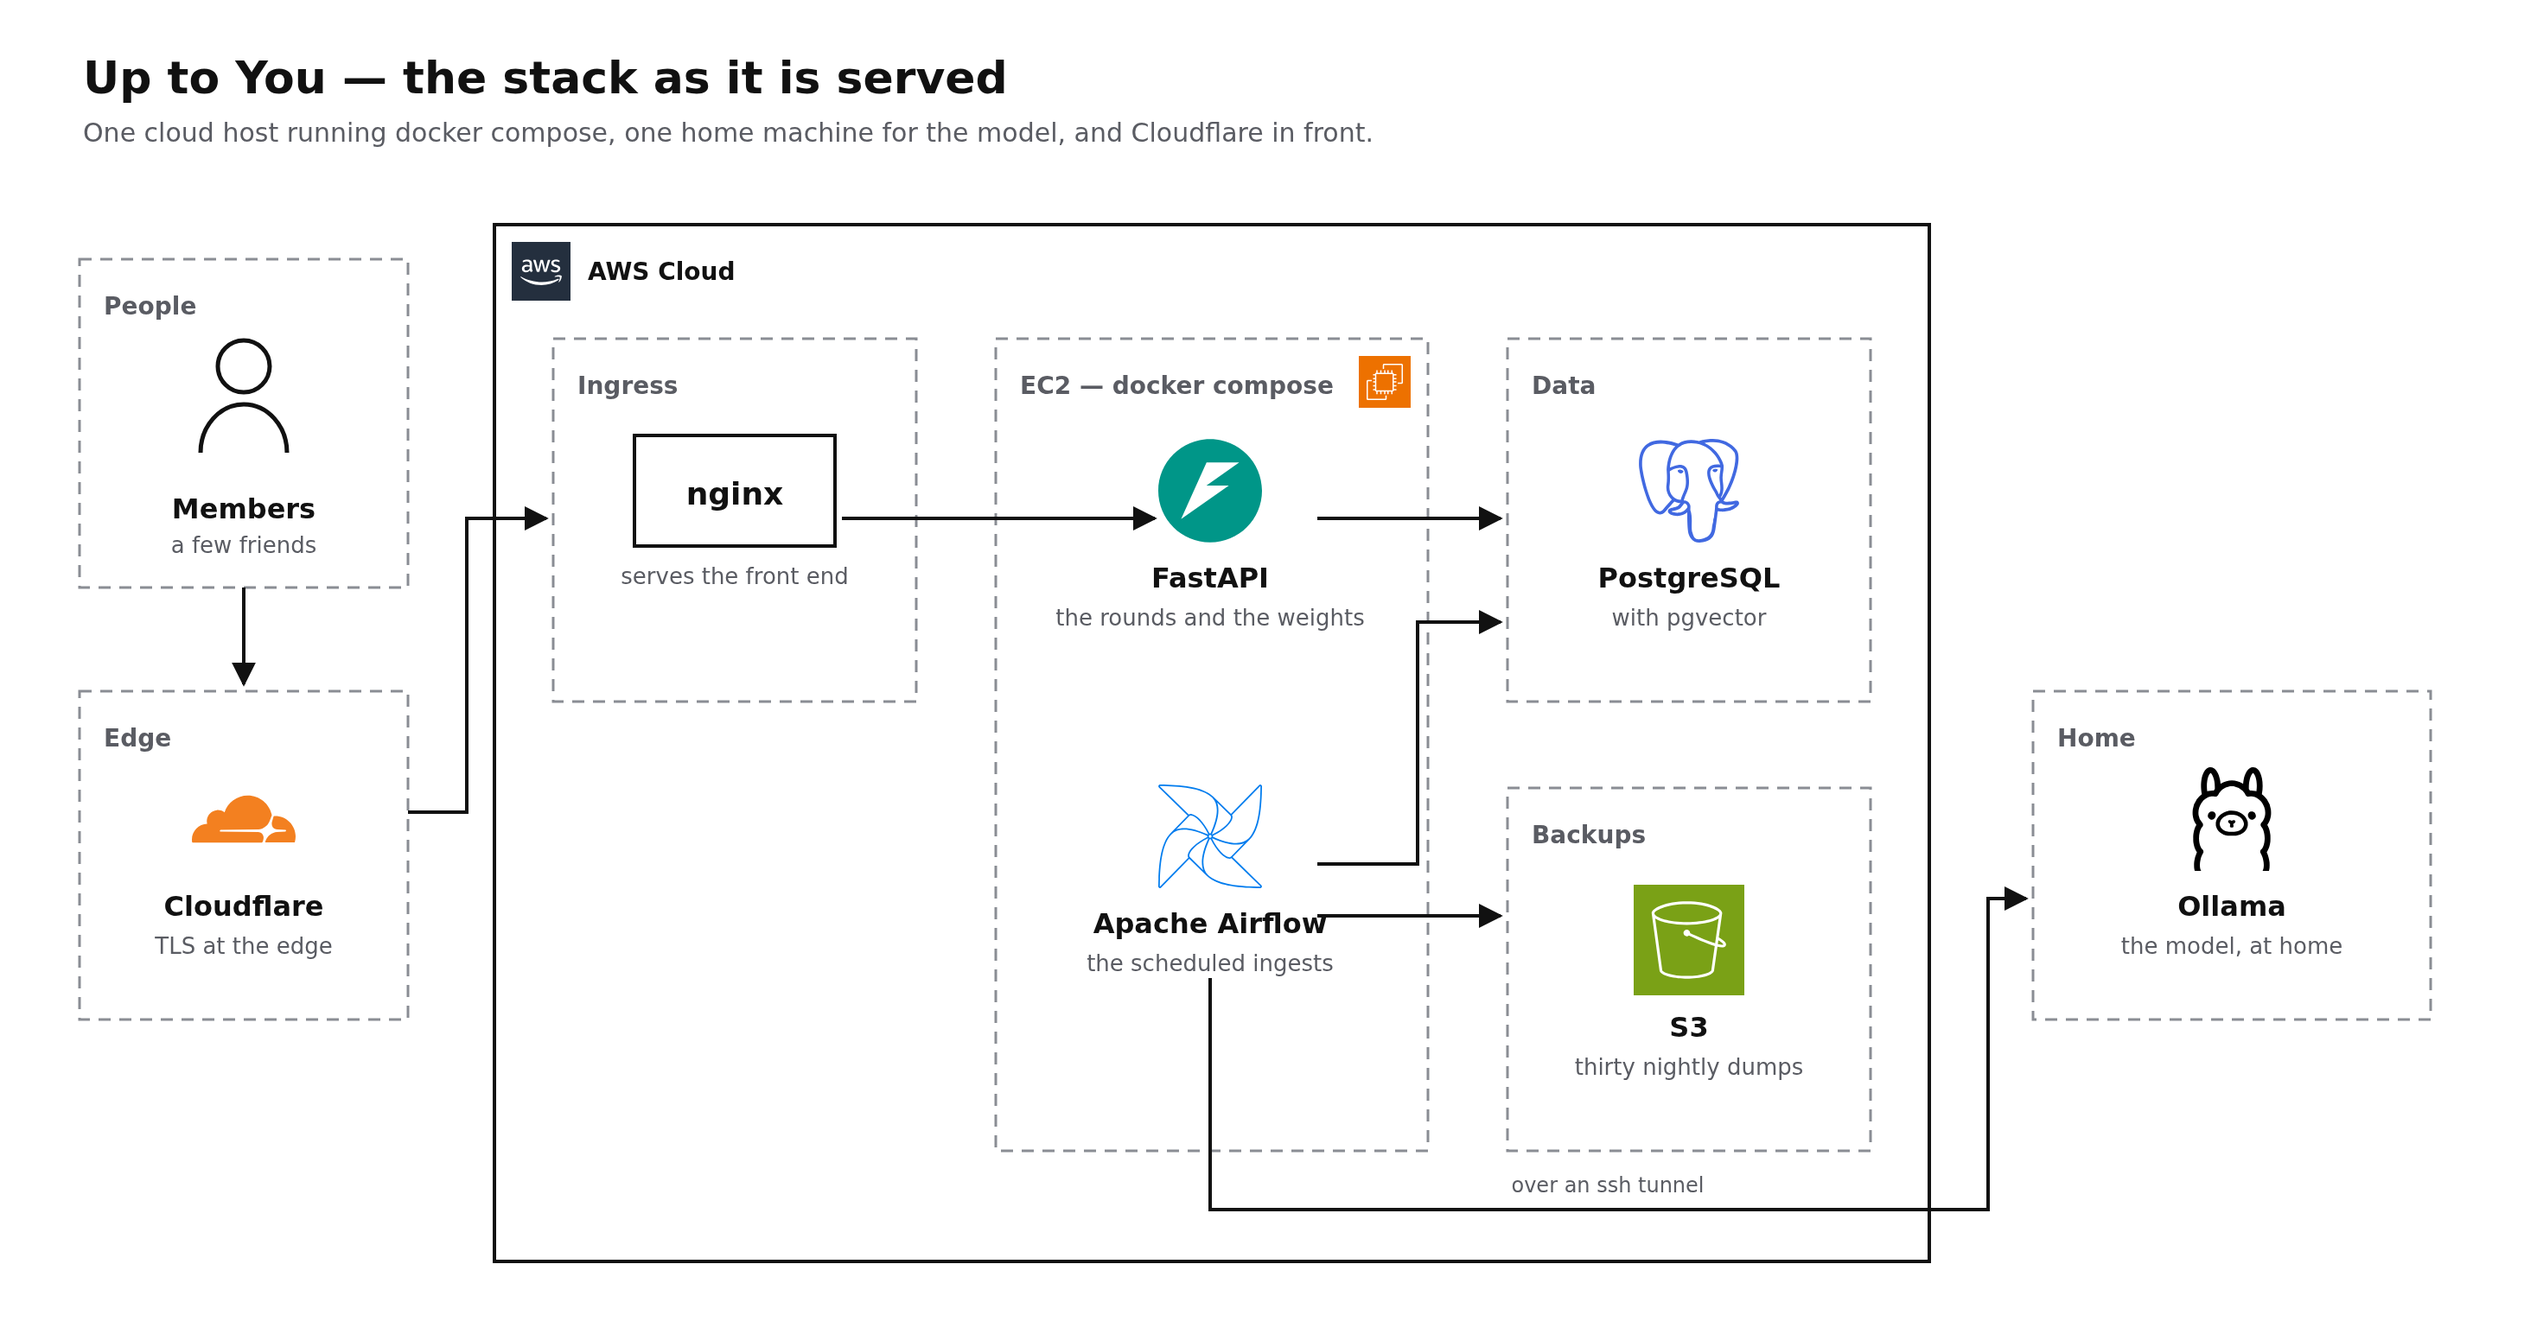
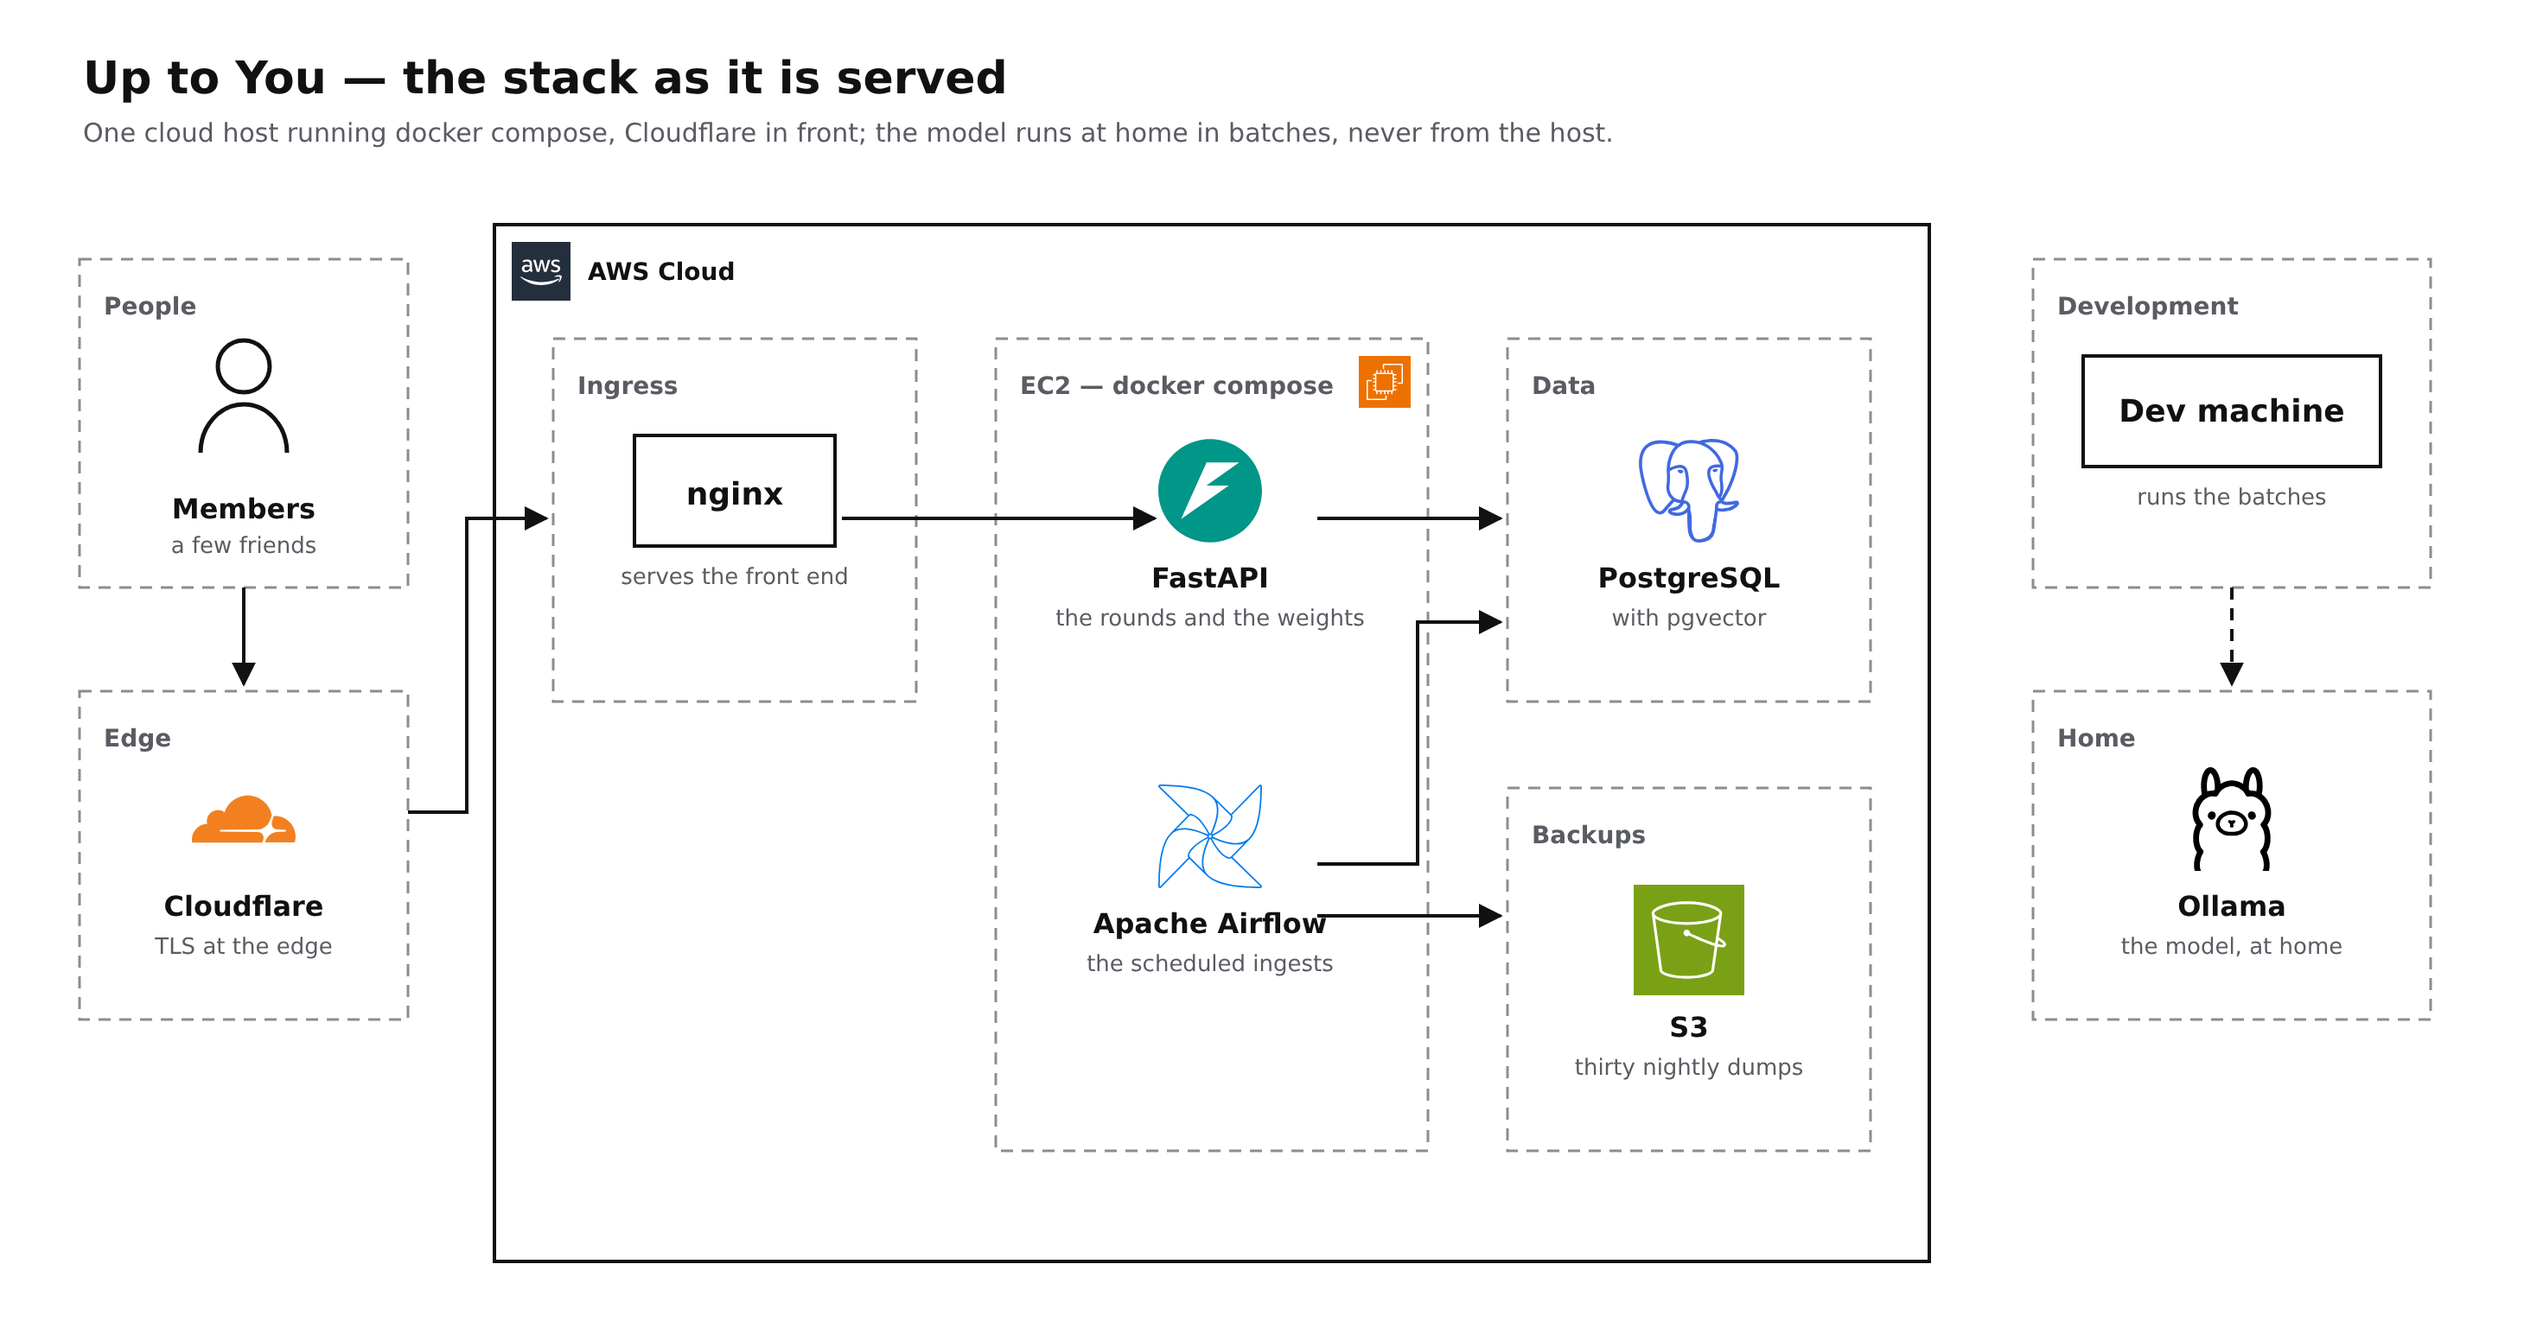
diagrams: the architecture picture shows production as it runs — no model path from EC2; a dev machine runs the batches against the home card; seven logins (evaluator; committed by the orchestrator in budget mode for backend's pen)
Claude-Session: https://claude.ai/code/session_016zX6wovjNt3LcH8hsb9Kdy

diff --git a/docs/diagrams/architecture.html b/docs/diagrams/architecture.html
@@ -4965,7 +4965,7 @@
         <div class="pulse-dot"></div>
         <h1>Up to You — the stack as it is served</h1>
       </div>
-      <p class="subtitle">One cloud host running docker compose, one home machine for the model, and Cloudflare in front.</p>
+      <p class="subtitle">One cloud host running docker compose, Cloudflare in front; the model runs at home in batches, never from the host.</p>
     </div>
 
     <script id="archify-guided-views-data" type="application/json">[]</script>
@@ -5015,7 +5015,7 @@
          data-preset-badge-editorial-plate="ARCHIFY / PLATE 04">
       <svg viewBox="0 0 1200 492" role="img" lang="en" aria-labelledby="archify-diagram-title archify-diagram-description" data-preset="classic" data-quality-profile="showcase">
         <title id="archify-diagram-title">Up to You — the stack as it is served</title>
-        <desc id="archify-diagram-description">One cloud host running docker compose, one home machine for the model, and Cloudflare in front.</desc>
+        <desc id="archify-diagram-description">One cloud host running docker compose, Cloudflare in front; the model runs at home in batches, never from the host.</desc>
         <!-- Definitions -->
         <defs>
           <marker id="arrowhead" markerWidth="10" markerHeight="7" refX="9" refY="3.5" orient="auto">
@@ -5043,17 +5043,19 @@
 
         <rect data-graph-role="structural-frame" data-composition-frame-kind="region" data-composition-frame-id="1" data-composition-frame-label="Edge" x="24" y="320" width="152" height="104" rx="12" class="c-region" stroke-width="1"/>
 
-        <rect data-graph-role="structural-frame" data-composition-frame-kind="region" data-composition-frame-id="2" data-composition-frame-label="AWS Cloud — one EC2 instance, docker compose" x="252" y="46" width="680" height="378" rx="12" class="c-region" stroke-width="1"/>
+        <rect data-graph-role="structural-frame" data-composition-frame-kind="region" data-composition-frame-id="2" data-composition-frame-label="AWS Cloud — one EC2 instance, docker compose" x="252" y="46" width="680" height="246" rx="12" class="c-region" stroke-width="1"/>
 
         <rect data-graph-role="structural-frame" data-composition-frame-kind="security-group" data-composition-frame-id="3" data-composition-frame-label="Ingress" x="270" y="188" width="152" height="104" rx="8" class="c-security-group" stroke-width="1"/>
 
-        <rect data-graph-role="structural-frame" data-composition-frame-kind="region" data-composition-frame-id="4" data-composition-frame-label="Containers" x="516" y="56" width="152" height="368" rx="12" class="c-region" stroke-width="1"/>
+        <rect data-graph-role="structural-frame" data-composition-frame-kind="region" data-composition-frame-id="4" data-composition-frame-label="Containers" x="516" y="56" width="152" height="236" rx="12" class="c-region" stroke-width="1"/>
 
         <rect data-graph-role="structural-frame" data-composition-frame-kind="region" data-composition-frame-id="5" data-composition-frame-label="Data" x="762" y="56" width="152" height="104" rx="12" class="c-region" stroke-width="1"/>
 
         <rect data-graph-role="structural-frame" data-composition-frame-kind="region" data-composition-frame-id="6" data-composition-frame-label="Backups" x="762" y="188" width="152" height="104" rx="12" class="c-region" stroke-width="1"/>
 
         <rect data-graph-role="structural-frame" data-composition-frame-kind="region" data-composition-frame-id="7" data-composition-frame-label="Home" x="1008" y="320" width="152" height="104" rx="12" class="c-region" stroke-width="1"/>
+
+        <rect data-graph-role="structural-frame" data-composition-frame-kind="region" data-composition-frame-id="8" data-composition-frame-label="Development" x="1008" y="188" width="152" height="104" rx="12" class="c-region" stroke-width="1"/>
 
         <!-- Connection paths (before components for correct z-order) -->
         <path data-edge-from="members" data-edge-to="cloudflare" data-edge-key="0" data-composition-points="100,272;100,344" d="M 100 272 L 100 344" class="a-default" stroke-width="1.5" marker-end="url(#arrowhead)"/>
@@ -5062,8 +5064,7 @@
         <path data-edge-from="api" data-edge-to="db" data-edge-key="3" data-composition-points="652,103;778,103" d="M 652 103 L 778 103" class="a-default" stroke-width="1.5" marker-end="url(#arrowhead)"/>
         <path data-edge-from="airflow" data-edge-to="db" data-edge-key="4" data-composition-points="652,235;715,235;715,117;778,117" d="M 652 235 L 707 235 Q 715 235 715 227 L 715 125 Q 715 117 723 117 L 778 117" class="a-default" stroke-width="1.5" marker-end="url(#arrowhead)"/>
         <path data-edge-from="airflow" data-edge-to="s3" data-edge-key="5" data-composition-points="652,249;778,249" d="M 652 249 L 778 249" class="a-default" stroke-width="1.5" marker-end="url(#arrowhead)"/>
-        <path data-edge-from="airflow" data-edge-to="relay" data-edge-key="6" data-composition-points="592,272;592,344" d="M 592 272 L 592 344" class="a-default" stroke-width="1.5" marker-end="url(#arrowhead)"/>
-        <path data-edge-from="relay" data-edge-to="gpu" data-edge-label="ssh tunnel" data-edge-key="7" data-composition-points="652,374;1024,374" d="M 652 374 L 1024 374" class="a-default" stroke-width="1.5" marker-end="url(#arrowhead)"/>
+        <path data-edge-from="devbox" data-edge-to="gpu" data-edge-key="6" data-composition-points="1084,272;1084,344" d="M 1084 272 L 1084 344" class="a-dashed" stroke-width="1.5" marker-end="url(#arrowhead-dashed)"/>
 
         <!-- Components -->
         <g id="node-members" data-node-id="members" data-node-label="Members" tabindex="0" role="button" aria-label="Focus Members, a few friends, People" aria-pressed="false" data-node-kind="external" data-node-sublabel="a few friends" data-node-context="People">
@@ -5140,20 +5141,6 @@
         <text data-detail="context" x="592" y="256" class="t-muted" font-size="8.8" text-anchor="middle">the scheduled ingests</text>
         </g>
 
-        <g id="node-relay" data-node-id="relay" data-node-label="tunnel relay" tabindex="0" role="button" aria-label="Focus tunnel relay, user-level, host side, AWS Cloud — one EC2 instance, docker compose › Containers" aria-pressed="false" data-node-kind="messagebus" data-node-sublabel="user-level, host side" data-node-context="AWS Cloud — one EC2 instance, docker compose › Containers">
-          <title>tunnel relay · user-level, host side · AWS Cloud — one EC2 instance, docker compose › Containers</title>
-          <rect x="532" y="344" width="120" height="60" rx="6" class="c-mask"/>
-          <rect x="532" y="344" width="120" height="60" rx="6" class="c-messagebus" stroke-width="1.5"/>
-          <g aria-hidden="true" data-semantic-sigil="messagebus" class="semantic-sigil s-messagebus" transform="translate(538 350) scale(0.6875)">
-            <path d="M2.5 4.5h11M2.5 8h11M2.5 11.5h11"/>
-            <circle cx="5" cy="4.5" r="1" class="sigil-fill"/>
-            <circle cx="10.5" cy="8" r="1" class="sigil-fill"/>
-            <circle cx="7" cy="11.5" r="1" class="sigil-fill"/>
-          </g>
-          <text data-node-label="" data-detail-anchor="" x="592" y="372" class="t-primary" font-size="11" font-weight="600" text-anchor="middle">tunnel relay</text>
-        <text data-detail="context" x="592" y="388" class="t-muted" font-size="8.8" text-anchor="middle">user-level, host side</text>
-        </g>
-
         <g id="node-db" data-node-id="db" data-node-label="PostgreSQL" tabindex="0" role="button" aria-label="Focus PostgreSQL, with pgvector, AWS Cloud — one EC2 instance, docker compose › Data, PostgreSQL" aria-pressed="false" data-node-kind="database" data-node-sublabel="with pgvector" data-node-context="AWS Cloud — one EC2 instance, docker compose › Data" data-node-brand="PostgreSQL" data-node-brand-id="postgresql" data-node-brand-status="preset" data-node-brand-source="https://wiki.postgresql.org/wiki/Logo">
           <title>PostgreSQL · with pgvector · AWS Cloud — one EC2 instance, docker compose › Data · PostgreSQL</title>
           <rect x="778" y="80" width="120" height="60" rx="6" class="c-mask"/>
@@ -5182,8 +5169,8 @@
         <text data-detail="context" x="838" y="256" class="t-muted" font-size="9" text-anchor="middle">thirty nightly dumps</text>
         </g>
 
-        <g id="node-gpu" data-node-id="gpu" data-node-label="Ollama" tabindex="0" role="button" aria-label="Focus Ollama, the home machine, Home, Ollama" aria-pressed="false" data-node-kind="external" data-node-sublabel="the home machine" data-node-context="Home" data-node-brand="Ollama" data-node-brand-id="ollama" data-node-brand-status="preset" data-node-brand-source="https://github.com/ollama/ollama/issues/2152#issuecomment-1905286922">
-          <title>Ollama · the home machine · Home · Ollama</title>
+        <g id="node-gpu" data-node-id="gpu" data-node-label="Ollama" tabindex="0" role="button" aria-label="Focus Ollama, the model, at home, Home, Ollama" aria-pressed="false" data-node-kind="external" data-node-sublabel="the model, at home" data-node-context="Home" data-node-brand="Ollama" data-node-brand-id="ollama" data-node-brand-status="preset" data-node-brand-source="https://github.com/ollama/ollama/issues/2152#issuecomment-1905286922">
+          <title>Ollama · the model, at home · Home · Ollama</title>
           <rect x="1024" y="344" width="120" height="60" rx="6" class="c-mask"/>
           <rect x="1024" y="344" width="120" height="60" rx="6" class="c-external" stroke-width="1.5"/>
           <g aria-hidden="true" data-semantic-sigil="external" class="semantic-sigil s-external" transform="translate(1030 350) scale(0.6875)">
@@ -5196,7 +5183,19 @@
             <rect width="16" height="16" rx="4" class="brand-mark-frame"/>
           </g>
           <text data-node-label="" data-detail-anchor="" x="1084" y="372" class="t-primary" font-size="11" font-weight="600" text-anchor="middle">Ollama</text>
-        <text data-detail="context" x="1084" y="388" class="t-muted" font-size="9" text-anchor="middle">the home machine</text>
+        <text data-detail="context" x="1084" y="388" class="t-muted" font-size="9" text-anchor="middle">the model, at home</text>
+        </g>
+
+        <g id="node-devbox" data-node-id="devbox" data-node-label="Development machine" tabindex="0" role="button" aria-label="Focus Development machine, batch runs, Development" aria-pressed="false" data-node-kind="external" data-node-sublabel="batch runs" data-node-context="Development">
+          <title>Development machine · batch runs · Development</title>
+          <rect x="1024" y="212" width="120" height="60" rx="6" class="c-mask"/>
+          <rect x="1024" y="212" width="120" height="60" rx="6" class="c-external" stroke-width="1.5"/>
+          <g aria-hidden="true" data-semantic-sigil="external" class="semantic-sigil s-external" transform="translate(1030 218) scale(0.6875)">
+            <rect x="2.5" y="5" width="8.5" height="8" rx="1.5"/>
+            <path d="M8 2.5h5.5V8M13.5 2.5 7.5 8.5"/>
+          </g>
+          <text data-node-label="" data-detail-anchor="" x="1084" y="240" class="t-primary" font-size="9.8" font-weight="600" text-anchor="middle">Development machine</text>
+        <text data-detail="context" x="1084" y="256" class="t-muted" font-size="9" text-anchor="middle">batch runs</text>
         </g>
 
         <!-- Connection labels -->
@@ -5210,10 +5209,6 @@
 
 
 
-        <g data-detail="context" data-edge-from="relay" data-edge-to="gpu" data-edge-label="ssh tunnel" data-edge-key="7">
-          <rect x="809" y="354" width="58" height="14" rx="3" class="c-mask"/>
-          <text x="838" y="364" class="t-muted" font-size="8" text-anchor="middle">ssh tunnel</text>
-        </g>
 
         <!-- Boundary labels (foreground masks keep routes out of titles) -->
         <g data-graph-role="structural-frame-label" data-composition-frame-id="0" data-composition-frame-kind="region" data-composition-frame-label="People">
@@ -5254,6 +5249,11 @@
         <g data-graph-role="structural-frame-label" data-composition-frame-id="7" data-composition-frame-kind="region" data-composition-frame-label="Home">
           <rect data-graph-role="structural-frame-label-mask" x="1012" y="324" width="31.599999999999998" height="16" rx="3" class="c-mask"/>
           <text data-boundary-label="" x="1016" y="337" class="t-cloud" font-size="9" font-weight="600">Home</text>
+        </g>
+
+        <g data-graph-role="structural-frame-label" data-composition-frame-id="8" data-composition-frame-kind="region" data-composition-frame-label="Development">
+          <rect data-graph-role="structural-frame-label-mask" x="1012" y="192" width="69.4" height="16" rx="3" class="c-mask"/>
+          <text data-boundary-label="" x="1016" y="205" class="t-cloud" font-size="9" font-weight="600">Development</text>
         </g>
 
         <!-- Legend -->
@@ -5461,7 +5461,7 @@
           <h3>Roles, not one superuser</h3>
         </div>
         <ul>
-          <li>&bull; Six logins, one per boundary — and the owner is held only by the one-shot migration container</li>
+          <li>&bull; Seven logins, one per boundary — and the owner is held only by the one-shot migration container</li>
           <li>&bull; The backup role can read everything and write nothing</li>
         </ul>
       </div>
@@ -5472,7 +5472,7 @@
           <h3>Off the host</h3>
         </div>
         <ul>
-          <li>&bull; The model runs at home and is reached through a user-level tunnel, not a container</li>
+          <li>&bull; The model runs in batches on a home card; the production host runs no model</li>
           <li>&bull; Backups keep thirty nightly dumps, swept only after a successful upload</li>
         </ul>
       </div>
